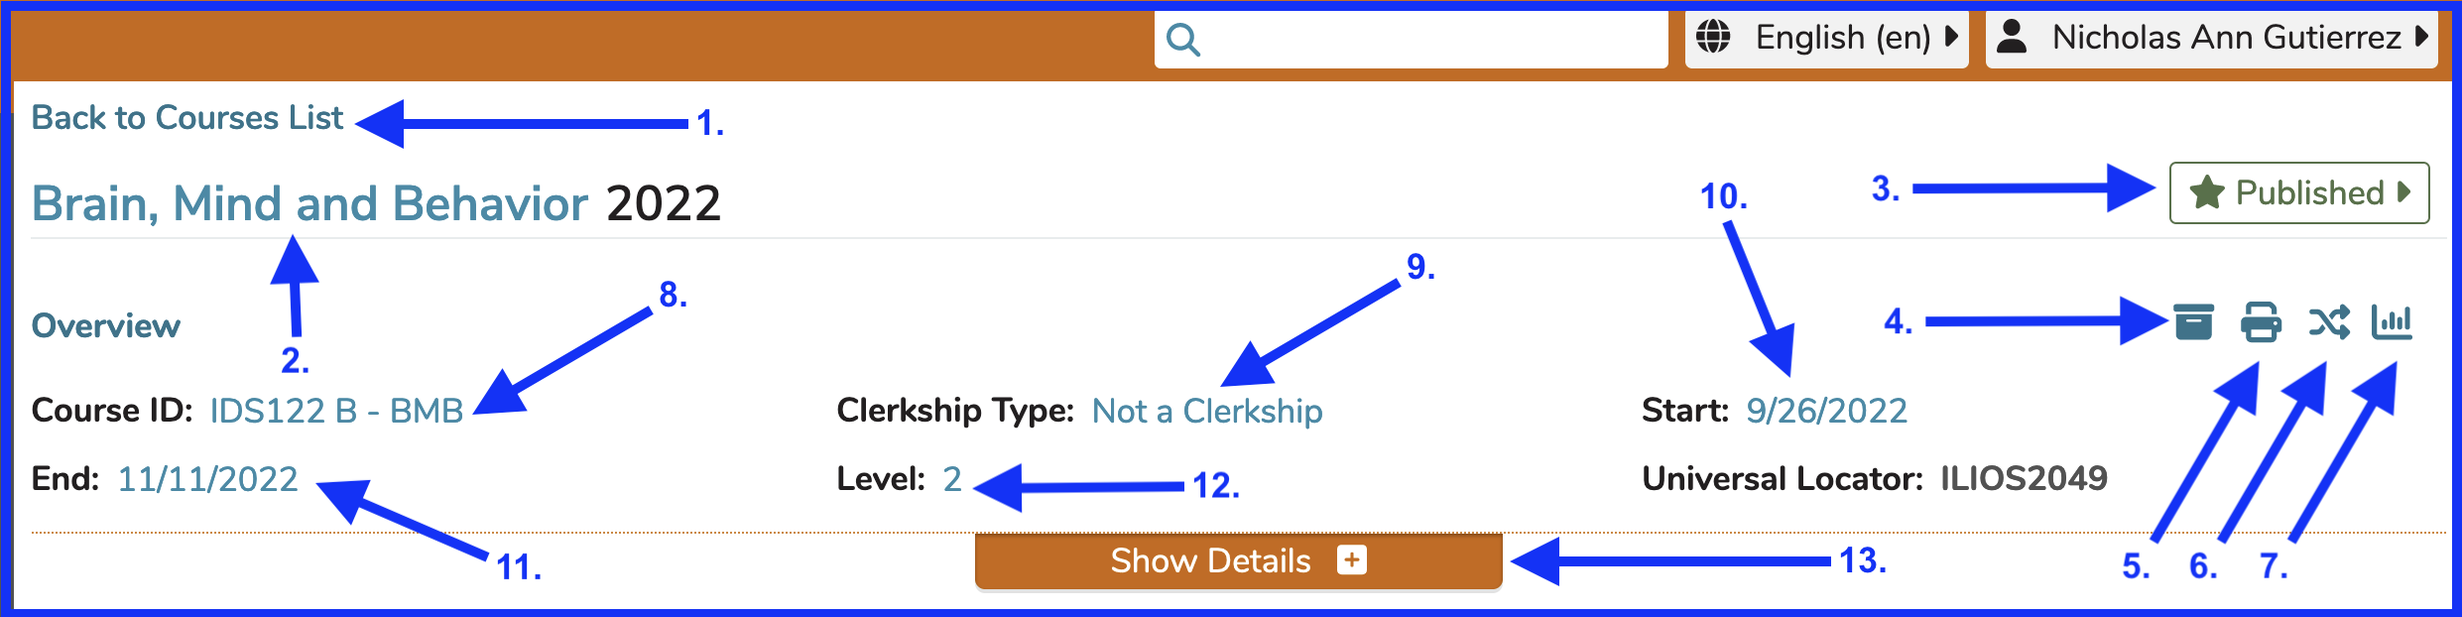
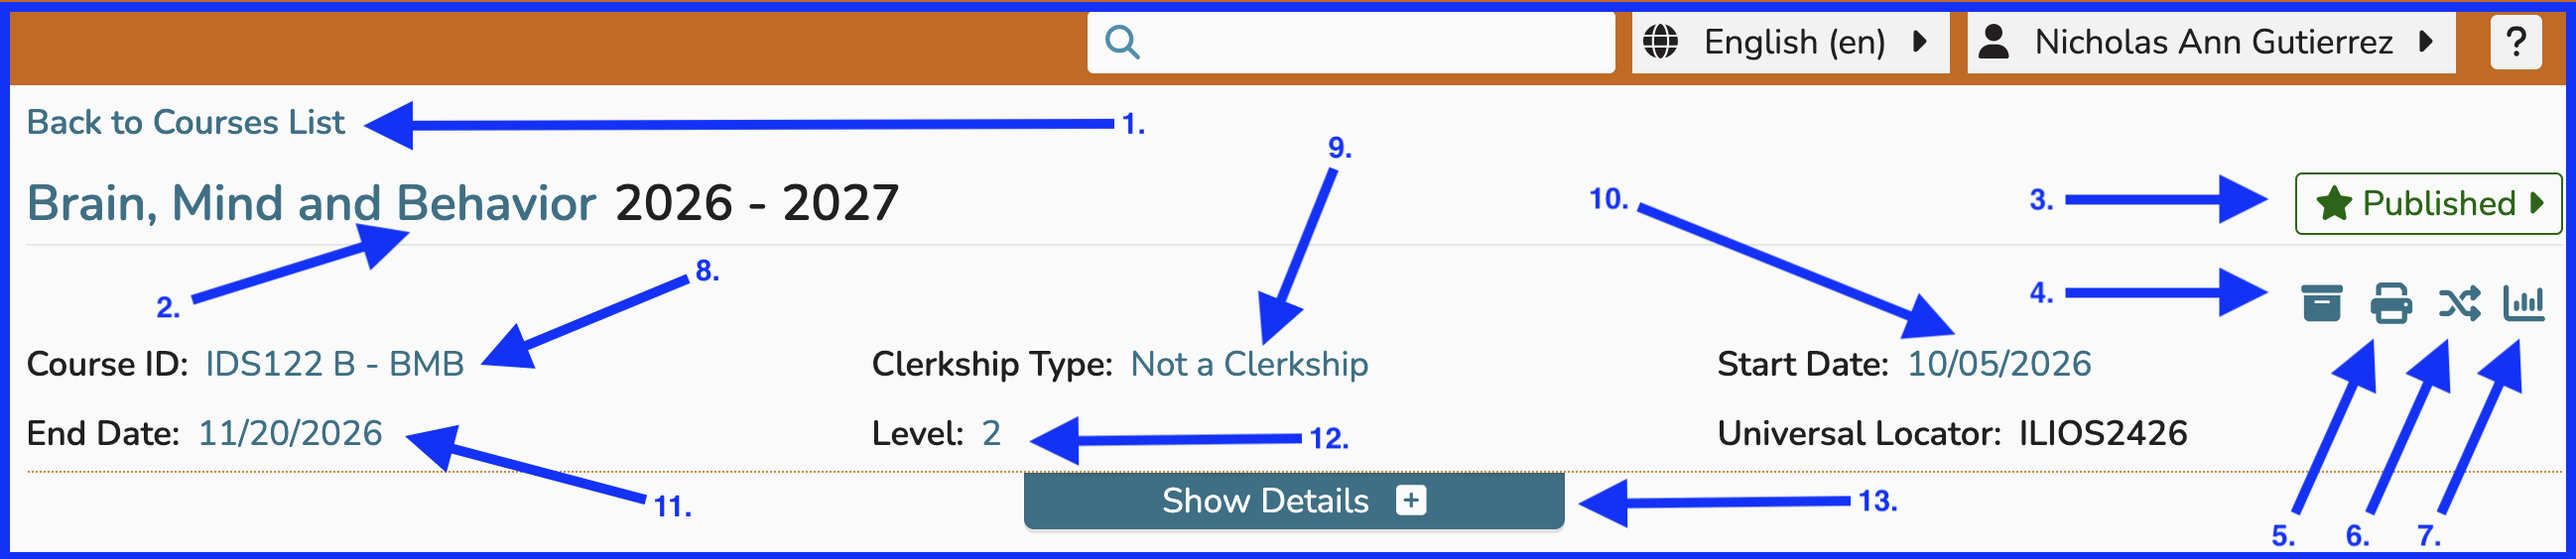
replaced image course summary

diff --git a/courses-and-sessions/courses/edit-course.md b/courses-and-sessions/courses/edit-course.md
@@ -20,7 +20,7 @@ In this second screen shot, a search string of “brai” has been entered and a
 
 Once the Course has been selected as shown above, the following Course-level attributes are available for review and modification if the logged-in user has sufficient privileges to make course-level changes. The screen is shown below. Universal Locator is a helpful tracking field used for support issues that is not customizable; but the rest of the fields that can be modified are shown with arrows.
 
-**NOTE**: Course Summary Details refers to the higher level details above the "Show Details" button. Refer to [**Course Details**](https://iliosproject.gitbook.io/ilios-user-guide/courses-and-sessions/courses#screen-elements) for the lower level details that do require the click of "Show Details" to be shown.
+**NOTE**: Course Summary Details refers to the higher level details above the "Show Details" button. Refer to [**Course Details**](https://iliosproject.gitbook.io/ilios-user-guide/courses-and-sessions/courses#screen-elements) for the lower level details that require the click of "Show Details" to be shown.
 
 ![course summary details](../../images/course_images/course_summary_details.png)
 
